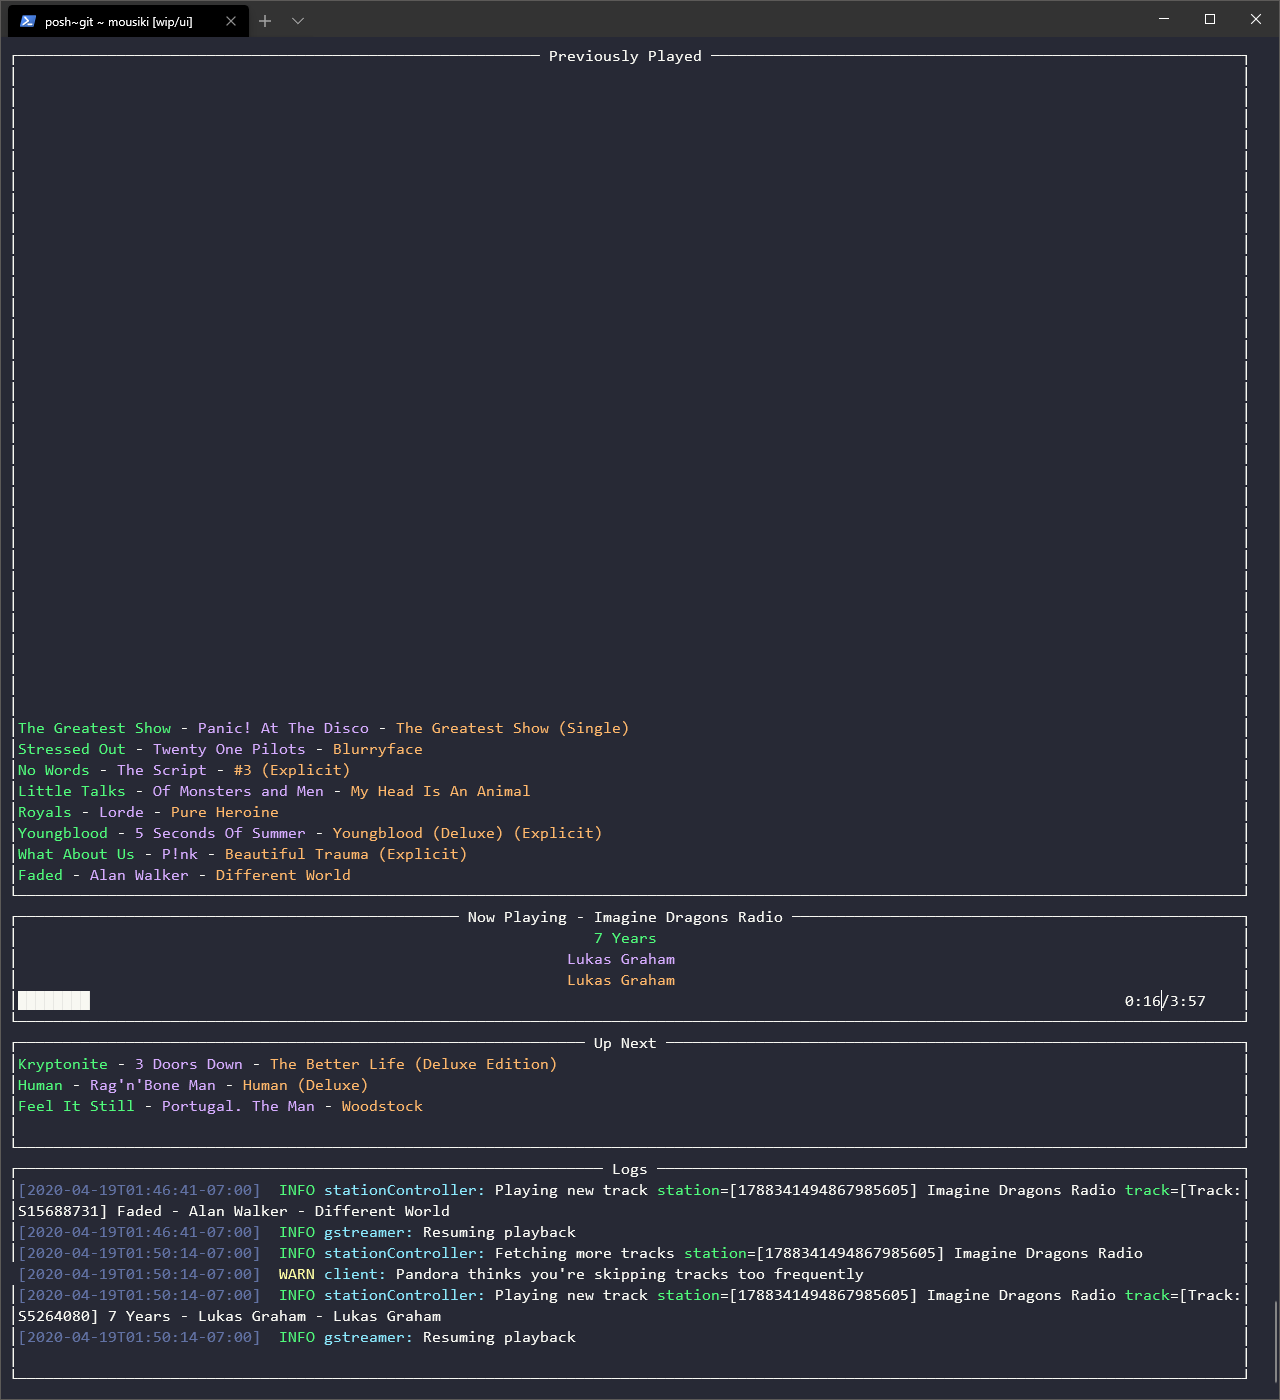
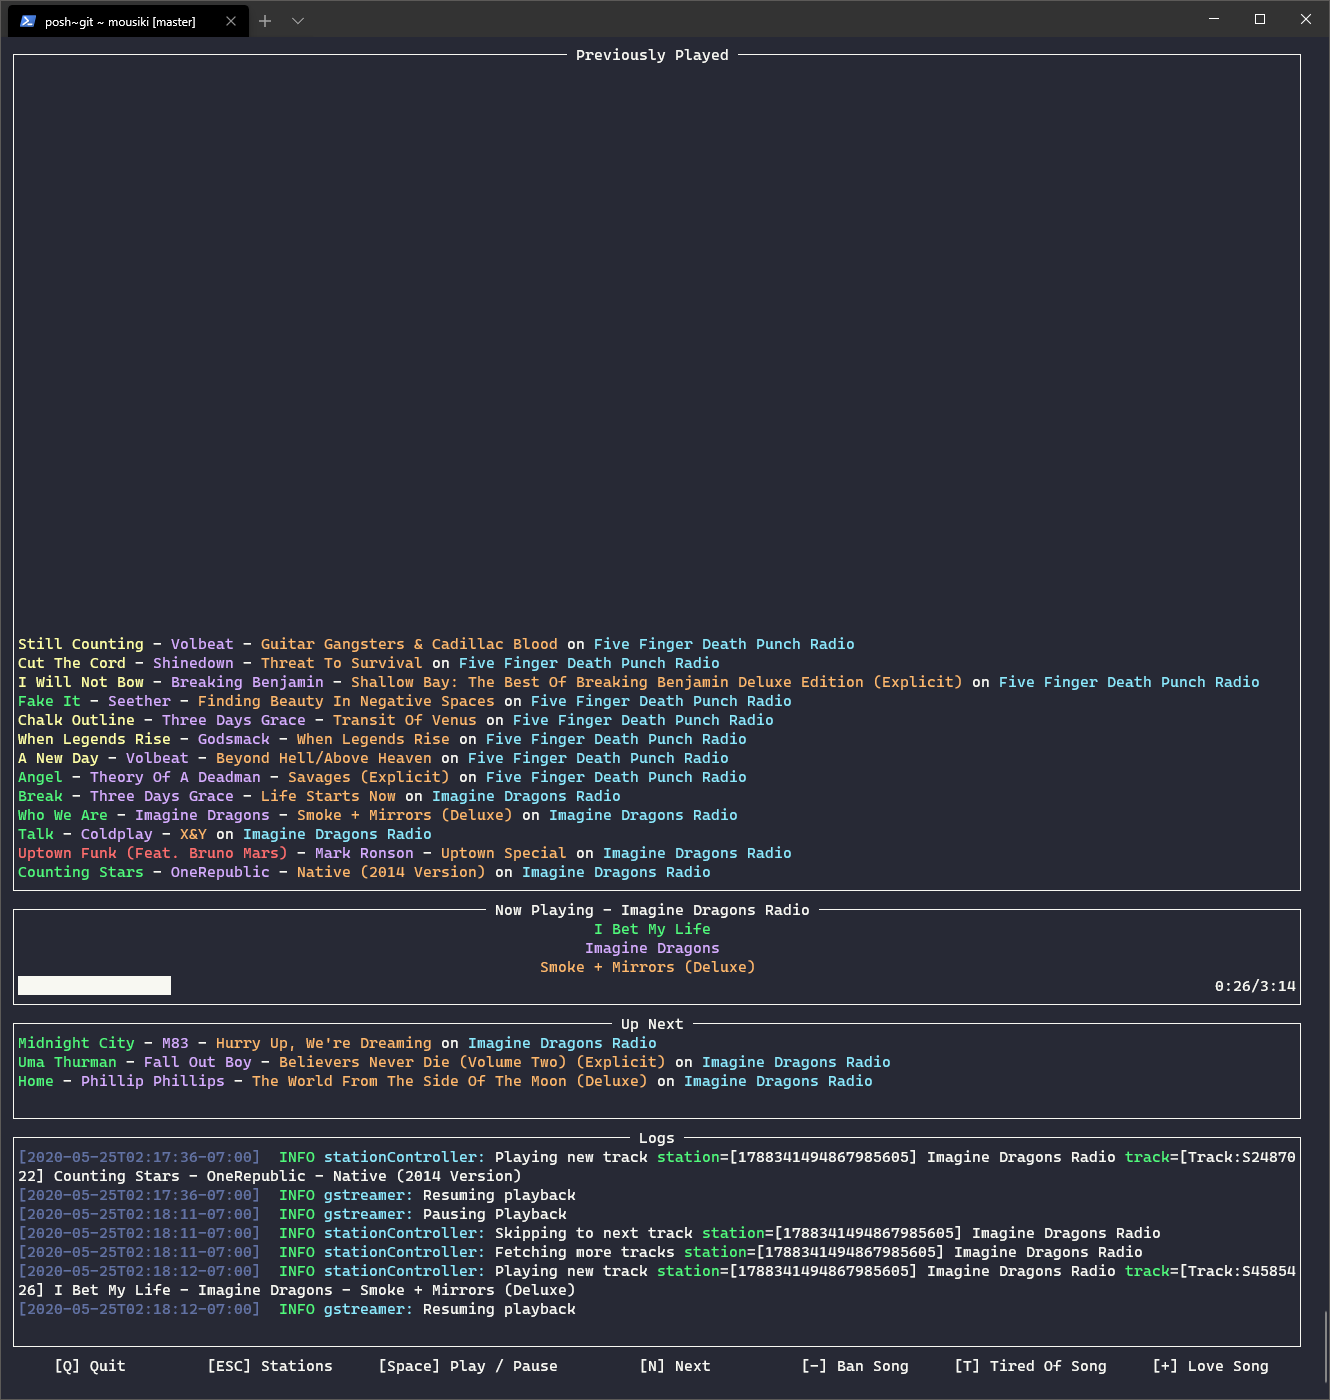
Add shortcuts to the UI

diff --git a/mousiki/ui/main.go b/mousiki/ui/main.go
@@ -17,6 +17,8 @@ import (
 	"gitlab.com/tslocum/cview"
 )
 
+const pageMain = "main"
+
 type mainWindow struct {
 	*cview.Pages
 
@@ -27,6 +29,8 @@ type mainWindow struct {
 	nowPlayingArtist  *cview.TextView
 	nowPlayingAlbum   *cview.TextView
 	nowPlayingWrapper *cview.Grid
+
+	shortcuts *cview.Grid
 
 	progress     *cview.ProgressBar
 	progressText *cview.TextView
@@ -58,11 +62,14 @@ func MainWindow(cancelFunc func(), player audio.Player, controller *mousiki.Stat
 		nowPlayingArtist: cview.NewTextView().SetDynamicColors(true),
 		nowPlayingAlbum:  cview.NewTextView().SetDynamicColors(true),
 
+		shortcuts: cview.NewGrid().SetRows(-1).
+			SetColumns(-1, -1, 25, -1, -1, -1, -1),
+
 		progress:     cview.NewProgressBar(),
 		progressText: cview.NewTextView().SetTextAlign(cview.AlignRight),
 
-		history: cview.NewTextView().SetDynamicColors(true),
-		upNext:  cview.NewTextView().SetDynamicColors(true),
+		history: cview.NewTextView().SetDynamicColors(true).SetWordWrap(true),
+		upNext:  cview.NewTextView().SetDynamicColors(true).SetWordWrap(true),
 
 		player:     player,
 		controller: controller,
@@ -75,7 +82,7 @@ func MainWindow(cancelFunc func(), player audio.Player, controller *mousiki.Stat
 
 	grid := cview.NewGrid()
 
-	root.AddPage("main", grid, true, true)
+	root.AddPage(pageMain, grid, true, true)
 	root.stationPicker = NewStationPickerForPager(cancelFunc, root.Pages, controller)
 
 	root.history.ScrollToEnd().
@@ -123,12 +130,33 @@ func MainWindow(cancelFunc func(), player audio.Player, controller *mousiki.Stat
 		AddItem(root.nowPlayingWrapper, 1, 0, 1, 1, 0, 0, false).
 		AddItem(root.upNext, 2, 0, 1, 1, 0, 0, false)
 
-	grid.SetRows(-10, -2).
+	grid.SetRows(-10, -2, 1).
 		SetColumns(-1).
 		AddItem(stationView, 0, 0, 1, 1, 0, 0, false).
-		AddItem(logView, 1, 0, 1, 1, 0, 0, false)
+		AddItem(logView, 1, 0, 1, 1, 0, 0, false).
+		AddItem(root.shortcuts, 2, 0, 1, 1, 0, 0, false)
+
+	root.Pages.SetChangedFunc(root.updateShortcuts)
 
 	return root
+}
+
+func (w *mainWindow) updateShortcuts() {
+	w.shortcuts.Clear()
+
+	page, _ := w.Pages.GetFrontPage()
+	if page == "main" {
+		w.shortcuts.AddItem(cview.NewTextView().SetTextAlign(cview.AlignCenter).SetWrap(false).SetText("[Q] Quit"), 0, 0, 1, 1, 0, 0, false).
+			AddItem(cview.NewTextView().SetTextAlign(cview.AlignCenter).SetWrap(false).SetText("[ESC] Stations"), 0, 1, 1, 1, 0, 0, false).
+			AddItem(cview.NewTextView().SetTextAlign(cview.AlignCenter).SetWrap(false).SetText("[Space] Play / Pause"), 0, 2, 1, 1, 0, 0, false).
+			AddItem(cview.NewTextView().SetTextAlign(cview.AlignCenter).SetWrap(false).SetText("[N] Next"), 0, 3, 1, 1, 0, 0, false).
+			AddItem(cview.NewTextView().SetTextAlign(cview.AlignCenter).SetWrap(false).SetText("[-] Ban Song"), 0, 4, 1, 1, 0, 0, false).
+			AddItem(cview.NewTextView().SetTextAlign(cview.AlignCenter).SetWrap(false).SetText("[T] Tired Of Song"), 0, 5, 1, 1, 0, 0, false).
+			AddItem(cview.NewTextView().SetTextAlign(cview.AlignCenter).SetWrap(false).SetText("[+] Love Song"), 0, 6, 1, 1, 0, 0, false)
+	} else if page == stationPickerPageName {
+		w.shortcuts.AddItem(cview.NewTextView().SetTextAlign(cview.AlignCenter).SetWrap(false).SetText("[Q/ESC] Quit"), 0, 0, 1, 2, 0, 0, false).
+			AddItem(cview.NewTextView().SetTextAlign(cview.AlignCenter).SetWrap(false).SetText("[Space/Enter] Change Station"), 0, 2, 1, 2, 0, 0, false)
+	}
 }
 
 func (w *mainWindow) HandleKey(app *cview.Application) func(ev *tcell.EventKey) *tcell.EventKey {
@@ -242,14 +270,16 @@ func (w *mainWindow) updateNowPlaying(app *cview.Application, t *pandora.Track) 
 }
 
 func (w *mainWindow) updateUpNext(app *cview.Application) {
-	station := w.controller.CurrentStation()
+	app.QueueUpdateDraw(func() {
+		station := w.controller.CurrentStation()
 
-	w.upNext.Clear()
-	buff := bufio.NewWriter(w.upNext)
-	for _, t := range w.controller.UpNext() {
-		_, _ = buff.WriteString(FormatTrack(&t, station) + "\n")
-	}
-	_ = buff.Flush()
+		w.upNext.Clear()
+		buff := bufio.NewWriter(w.upNext)
+		for _, t := range w.controller.UpNext() {
+			_, _ = buff.WriteString(FormatTrack(&t, station) + "\n")
+		}
+		_ = buff.Flush()
+	})
 }
 
 func (w *mainWindow) Write(p []byte) (n int, err error) {
